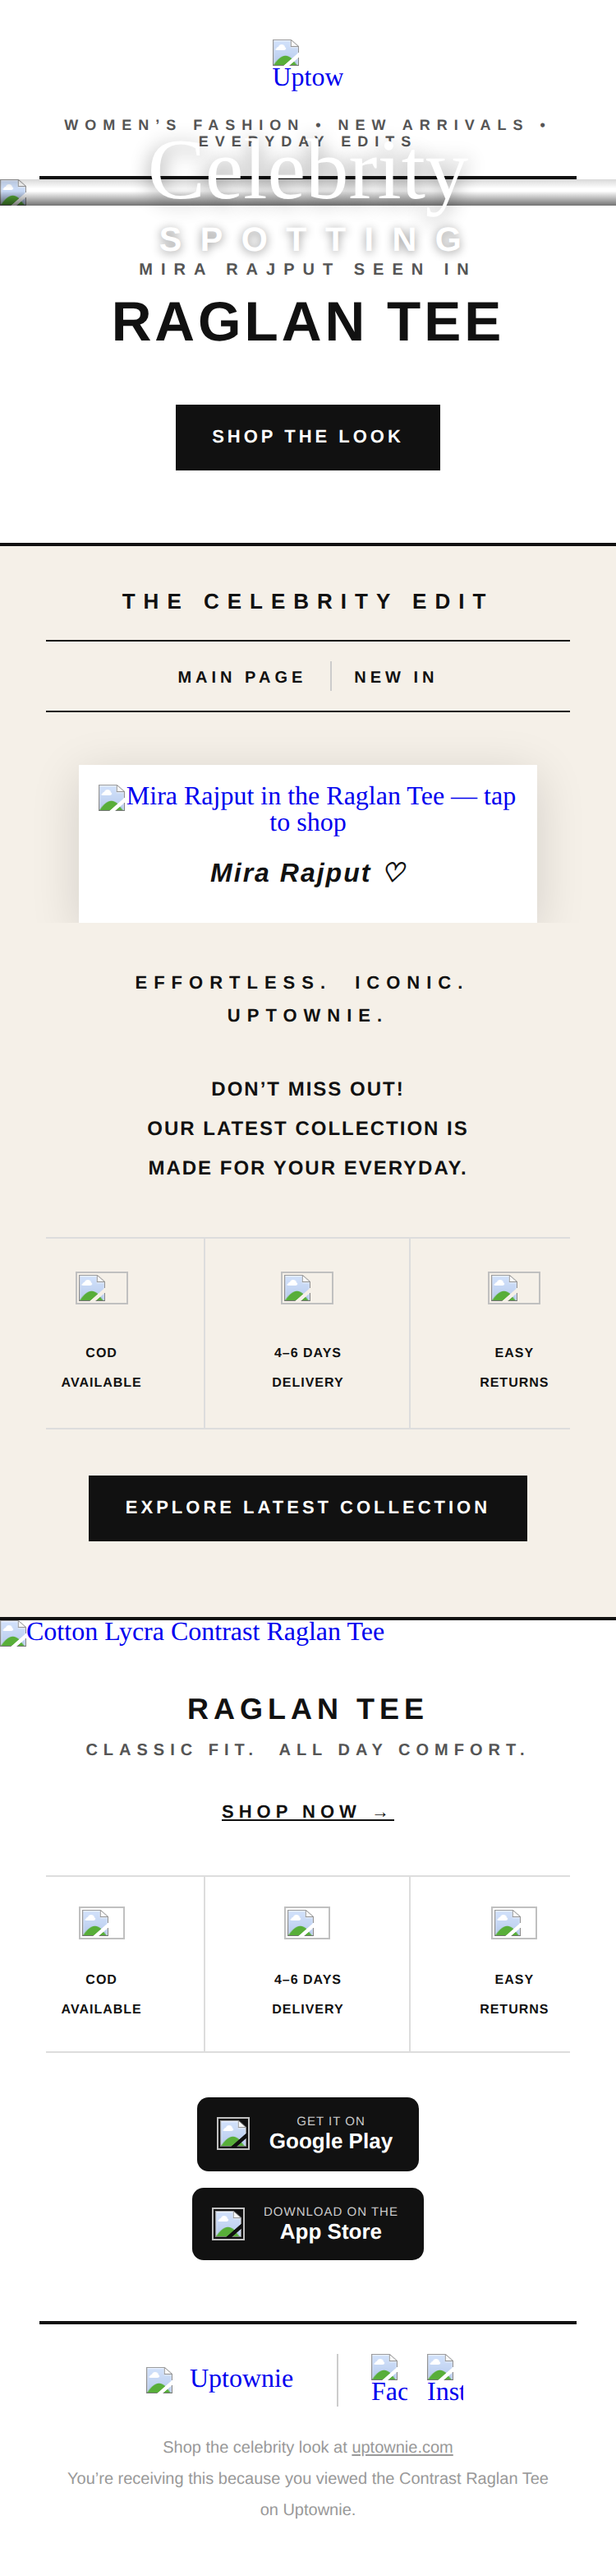
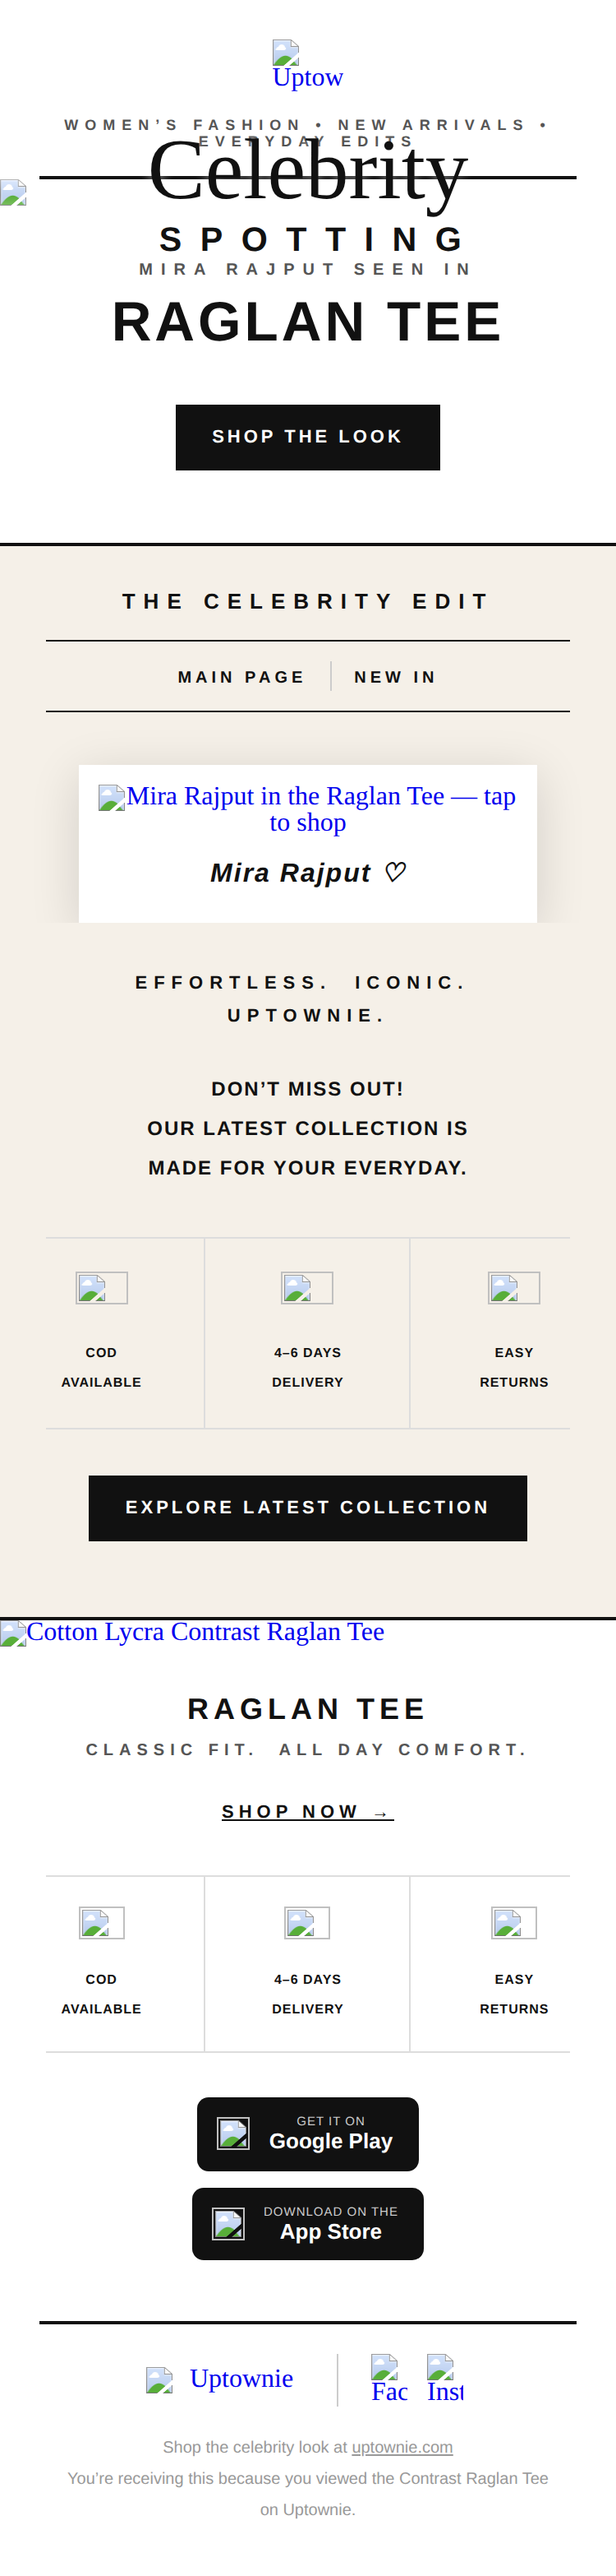
Change Celebrity SPOTTING overlay text to black
Swap dark gradient for a subtle light overlay so black text reads clearly
over the hero photo. Update both modern-client and Outlook VML paths.

https://claude.ai/code/session_01AWc4awJsuvDjrkFD7k2Dft

Changed region(s): [[0.0, 0.031, 1.0, 0.1239]]

diff --git a/raglan-tee-email.html b/raglan-tee-email.html
@@ -164,12 +164,12 @@
                  class="fluid"
                  style="width:100%;max-width:600px;height:auto;display:block;">
           </a>
-          <!-- dark gradient so text reads over the photo -->
-          <div style="position:absolute;top:0;left:0;right:0;bottom:0;background:linear-gradient(to bottom,rgba(0,0,0,0.15) 0%,transparent 35%,transparent 45%,rgba(0,0,0,0.55) 100%);pointer-events:none;"></div>
+          <!-- light overlay so black text reads over the photo -->
+          <div style="position:absolute;top:0;left:0;right:0;bottom:0;background:linear-gradient(to bottom,rgba(255,255,255,0.25) 0%,transparent 40%,transparent 60%,rgba(255,255,255,0.20) 100%);pointer-events:none;"></div>
           <!-- text overlay — centered on the image -->
           <div style="position:absolute;top:50%;left:50%;-webkit-transform:translate(-50%,-50%);transform:translate(-50%,-50%);text-align:center;width:88%;pointer-events:none;">
-            <p class="hero-script" style="margin:0;font-family:'Great Vibes',cursive;font-size:72px;line-height:1;color:#ffffff;font-weight:400;text-shadow:0 2px 12px rgba(0,0,0,0.45);">Celebrity</p>
-            <p class="hero-spotting" style="margin:6px 0 0;font-family:'Montserrat',Arial,sans-serif;font-size:22px;line-height:1;letter-spacing:14px;font-weight:900;text-transform:uppercase;color:#ffffff;text-shadow:0 1px 6px rgba(0,0,0,0.45);padding-left:14px;">SPOTTING</p>
+            <p class="hero-script" style="margin:0;font-family:'Great Vibes',cursive;font-size:72px;line-height:1;color:#111111;font-weight:400;text-shadow:0 1px 8px rgba(255,255,255,0.6);">Celebrity</p>
+            <p class="hero-spotting" style="margin:6px 0 0;font-family:'Montserrat',Arial,sans-serif;font-size:22px;line-height:1;letter-spacing:14px;font-weight:900;text-transform:uppercase;color:#111111;text-shadow:0 1px 4px rgba(255,255,255,0.5);padding-left:14px;">SPOTTING</p>
           </div>
         </div>
         <!--<![endif]-->
@@ -183,8 +183,8 @@
             <tr><td height="190" style="font-size:0;line-height:0;">&nbsp;</td></tr>
             <tr>
               <td align="center" style="padding:0 48px;">
-                <p style="margin:0;font-family:Montserrat,Arial,sans-serif;font-size:64px;line-height:1;color:#ffffff;font-weight:400;">Celebrity</p>
-                <p style="margin:8px 0 0;font-family:Montserrat,Arial,sans-serif;font-size:18px;letter-spacing:10px;font-weight:900;text-transform:uppercase;color:#ffffff;">SPOTTING</p>
+                <p style="margin:0;font-family:Montserrat,Arial,sans-serif;font-size:64px;line-height:1;color:#111111;font-weight:400;">Celebrity</p>
+                <p style="margin:8px 0 0;font-family:Montserrat,Arial,sans-serif;font-size:18px;letter-spacing:10px;font-weight:900;text-transform:uppercase;color:#111111;">SPOTTING</p>
               </td>
             </tr>
           </table>
